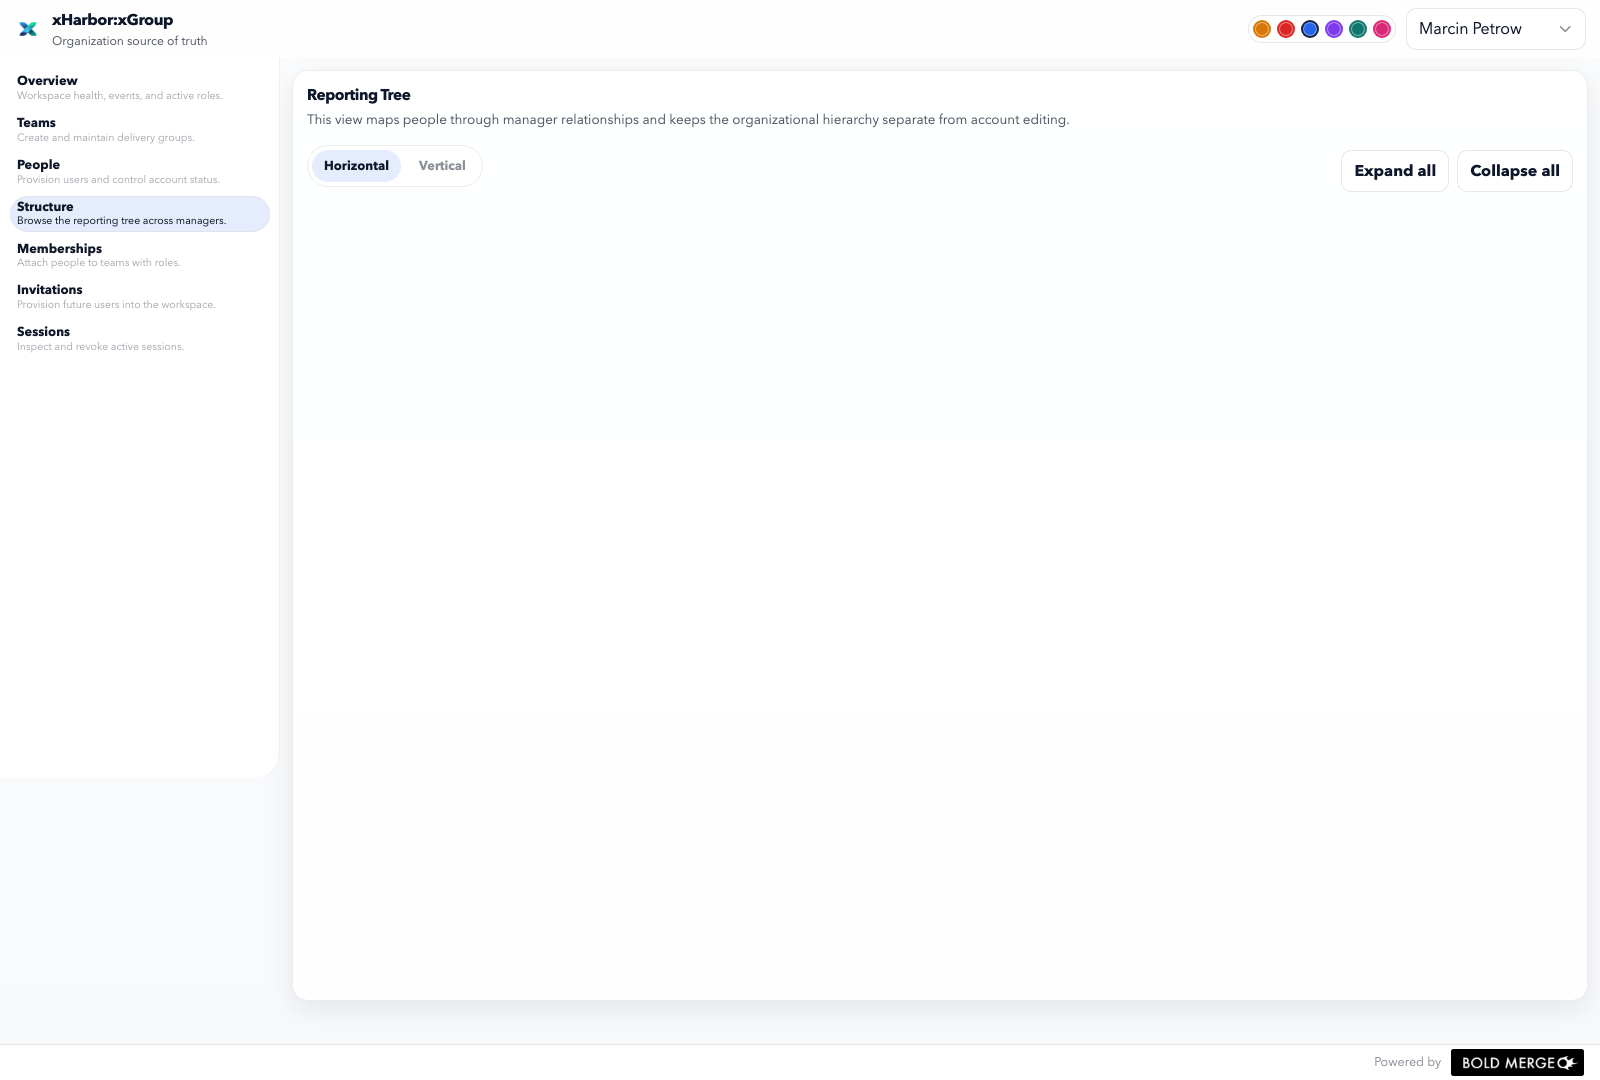
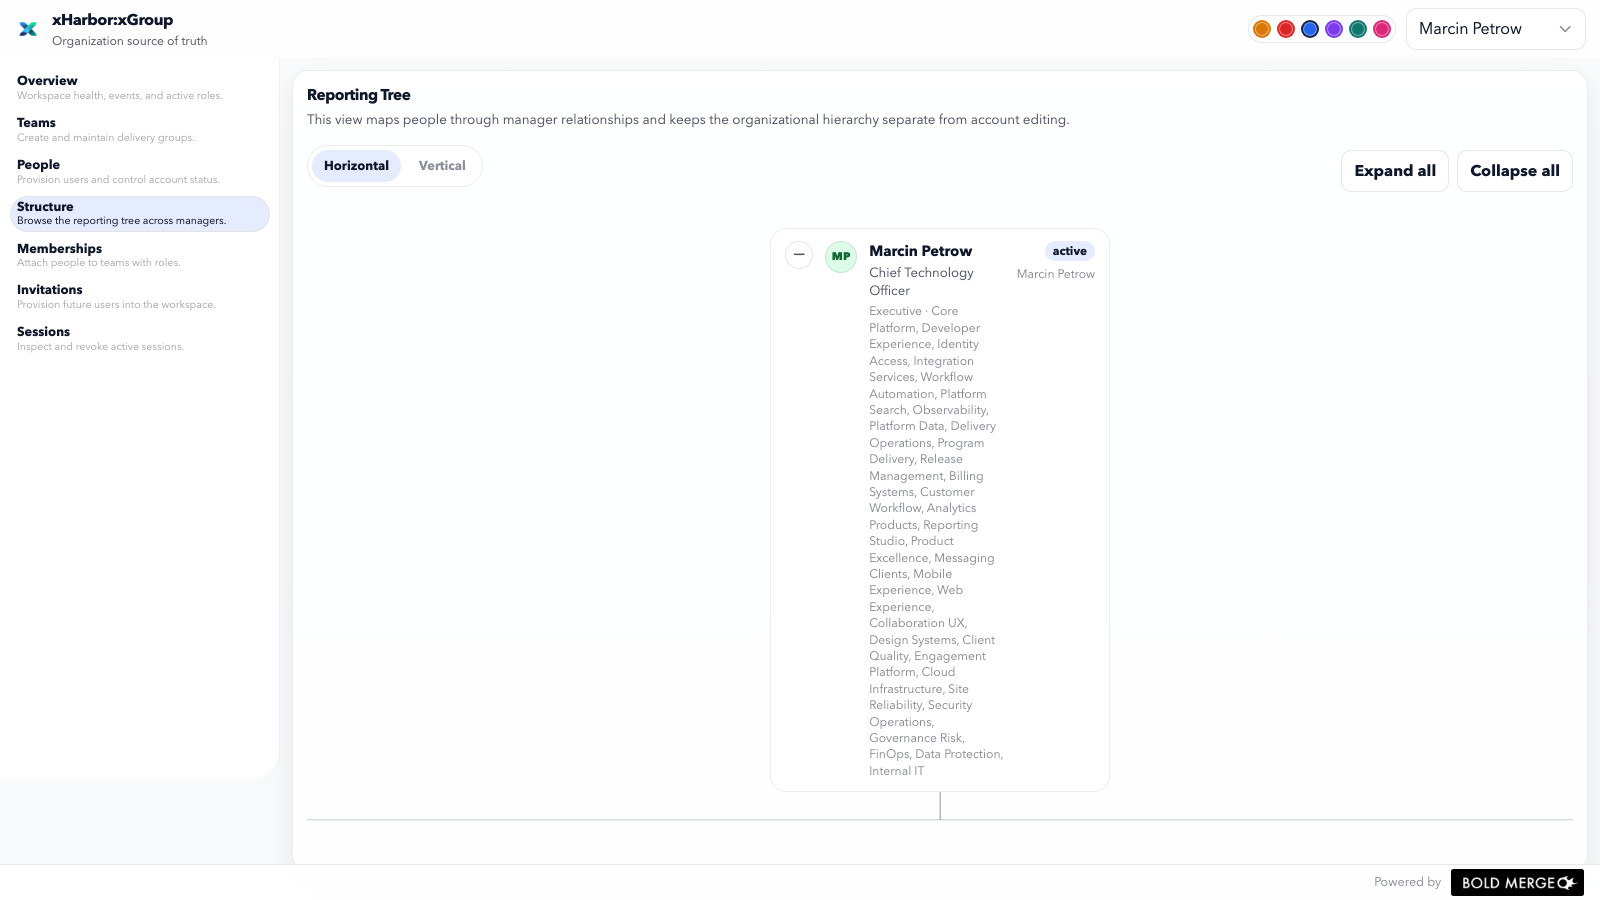
Center xGroup org chart and standardize screenshots

diff --git a/apps/xgroup-web/public/app.js b/apps/xgroup-web/public/app.js
@@ -245,6 +245,18 @@ function highlightHorizontalOrgTree(container, selectedIDs) {
   });
 }
 
+function centerHorizontalOrgTreeOnRoot(container) {
+  if (!container) return;
+  const rootCard = container.querySelector(".org-tree-level.root > .org-branch > .org-branch-node .org-card");
+  if (!rootCard) return;
+
+  const containerRect = container.getBoundingClientRect();
+  const rootRect = rootCard.getBoundingClientRect();
+  const targetLeft = rootRect.left - containerRect.left + container.scrollLeft - (container.clientWidth / 2) + (rootRect.width / 2);
+  container.scrollLeft = Math.max(0, Math.round(targetLeft));
+  container.scrollTop = 0;
+}
+
 function ensureDirectoryRoutes(state) {
   state.directoryRoutes ??= {};
   return state.directoryRoutes;
@@ -656,7 +668,7 @@ const shell = shellAPI.createShell({
       state.collapsedOrgNodes ??= new Set();
       state.orgChartLayout ??= "horizontal";
       state.selectedOrgUserID ??= "user-marcin";
-      state.orgTreeScroll ??= { left: 0, top: 0 };
+      state.orgTreeScroll ??= null;
       if (state.orgTreeCleanup) {
         state.orgTreeCleanup();
         state.orgTreeCleanup = null;
@@ -704,8 +716,16 @@ const shell = shellAPI.createShell({
           highlightHorizontalOrgTree(orgTree, selectedPath);
         };
         layoutHorizontalOrgTree(orgTree);
-        orgTree.scrollLeft = state.orgTreeScroll.left || 0;
-        orgTree.scrollTop = state.orgTreeScroll.top || 0;
+        if (state.orgTreeScroll) {
+          orgTree.scrollLeft = state.orgTreeScroll.left || 0;
+          orgTree.scrollTop = state.orgTreeScroll.top || 0;
+        } else {
+          centerHorizontalOrgTreeOnRoot(orgTree);
+          state.orgTreeScroll = {
+            left: orgTree.scrollLeft,
+            top: orgTree.scrollTop
+          };
+        }
         highlightHorizontalOrgTree(orgTree, selectedPath);
         const cleanupPan = bindPannableScroll(orgTree, {
           shouldStart: (event) => !(
@@ -728,8 +748,16 @@ const shell = shellAPI.createShell({
         }, "xgroup-org-select");
         window.requestAnimationFrame(() => {
           layoutHorizontalOrgTree(orgTree);
-          orgTree.scrollLeft = state.orgTreeScroll.left || 0;
-          orgTree.scrollTop = state.orgTreeScroll.top || 0;
+          if (state.orgTreeScroll) {
+            orgTree.scrollLeft = state.orgTreeScroll.left || 0;
+            orgTree.scrollTop = state.orgTreeScroll.top || 0;
+          } else {
+            centerHorizontalOrgTreeOnRoot(orgTree);
+            state.orgTreeScroll = {
+              left: orgTree.scrollLeft,
+              top: orgTree.scrollTop
+            };
+          }
           highlightHorizontalOrgTree(orgTree, selectedPath);
         });
         state.orgTreeCleanup = () => {

diff --git a/docs/wiki/local-development.md b/docs/wiki/local-development.md
@@ -46,6 +46,8 @@ Generated images are written to:
 
 `docs/assets/screenshots/`
 
+Screenshots are intentionally captured in a consistent `16:9` frame so the wiki gallery stays visually aligned across modules.
+
 ## Repository structure
 
 - `apps/` contains all web apps, APIs, and the native `xtalk-macos` client
